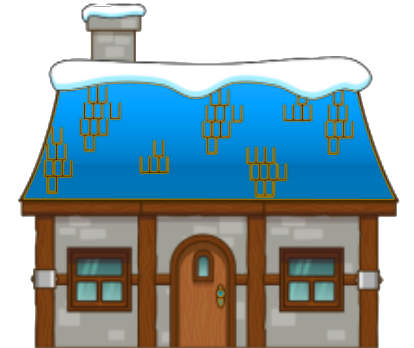
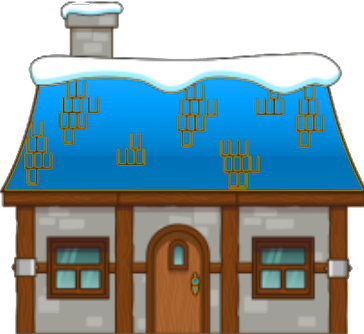
still working on the houses to appear correctly

diff --git a/js/game.js b/js/game.js
@@ -18,7 +18,7 @@ class Game {
     this.presents = [];
     this.coals = [];
     this.lastEnemyTimestamp = 0;
-    this.timeLeft = 10;
+    this.timeLeft = 30;
     this.score = 0;
     this.active = true;
     this.arrowSelected = 'ArrowRight';
@@ -51,6 +51,7 @@ class Game {
   runLogic() {
     this.erasePresents();
     this.eraseEnemy();
+    this.eraseHouse();
     this.eraseCoal();
     this.addEnemy();
     this.addHouse();
@@ -180,9 +181,10 @@ class Game {
 
   eraseHouse() {
     for (let house of this.houses) {
-      if (house.x + house.width < 0) {
+      if (house.x + house.img.width < 0) {
         const indexOfHouse = this.houses.indexOf(house);
         this.houses.splice(indexOfHouse, 1);
+        this.addHouse();
       }
     }
   }
@@ -246,49 +248,29 @@ class Game {
   }
 
   addHouse() {
-    if (this.houses.length === 0) {
+    if (this.houses.length < 4) {
       this.houses.push(  
         new House(
           this,
-          Math.random() * (canvasWidth / 4 - canvasWidth / 6) + canvasWidth / 6,
           Math.random() * (canvasHeight / 2 - canvasHeight / 4) +
             canvasHeight / 4
         )
       );
-      this.houses[0].x = 100;
-      for (let i = 1; i < 6; i++) {
-        this.houses.push(
-          new House(
-            this,
-            Math.random() * (canvasWidth / 4 - canvasWidth / 6) +
-              canvasWidth / 6,
-            Math.random() * (canvasHeight / 2 - canvasHeight / 4) +
-              canvasHeight / 4
-          )
-        );
-        this.houses[i].x = this.houses[i - 1].x + this.houses[i - 1].width;
-      }
-    }
-    if (
-      this.houses[this.houses.length - 1].x <
-      canvasWidth - this.houses[this.houses.length - 1].width
-    ) {
-      const house = new House(
-        this,
-        Math.random() * (canvasWidth / 4 - canvasWidth / 6) + canvasWidth / 6,
-        Math.random() * (canvasHeight / 2 - canvasHeight / 4) + canvasHeight / 4
-      );
-      this.houses.push(house);
-    }
   }
+}
+  
 
   checkPresentDelivered() {
     for (let present of this.presents) {
       for (let house of this.houses) {
         if (
           present.y + present.height > house.y &&
-          present.x + present.width >= house.x &&
-          present.x <= house.x + house.width
+          present.x + present.width >= house.targetX[0] &&
+          present.x <= house.x + house.targetWidth[0] ||
+          present.y + present.height > house.y &&
+          present.x + present.width >= house.targetX[1] &&
+          present.x <= house.x + house.targetWidth[1]
+
         ) {
           const indexOfPresent = this.presents.indexOf(present);
           this.presents.splice(indexOfPresent, 1);

diff --git a/js/player.js b/js/player.js
@@ -6,29 +6,29 @@ playerImageSrc = [
   '../img/santa/0004.png'
 ]
 
-console.log(playerImg);
+playerImg.src = playerImageSrc[0];
 class Player {
   constructor(game, x, y) {
     this.game = game;
     this.x = x;
     this.y = y;
-    this.height = 35;
-    this.width = 35;
+    this.height = 70;
+    this.width = 105;
     this.maxY = 0;
     this.srcIndexTimestamp = 0;
     this.srcIndex = 0;
+
   }
 
   draw() {
-    if(Date.now() > this.srcIxdexTimestamp + 200) {
+    if(Date.now() > this.srcIndexTimestamp + 200) {
       this.srcIndex++;
       this.srcIndex = this.srcIndex % 4;
       this.srcIndexTimestamp = Date.now();
     }
-    playerImg.src = playerImageSrc[this.srcIndex];
-    this.game.context.fillStyle = "red";
-    this.game.context.fillRect(this.x, this.y, this.width, this.height)
-    this.game.context.drawImage(playerImg, this.x, this.y)
+    // this.game.context.fillStyle = "red";
+    // this.game.context.fillRect(this.x, this.y, this.width, this.height)
+    this.game.context.drawImage(playerImg, this.x, this.y, this.width, this.height)
   }
 
   runLogic() {
@@ -63,7 +63,7 @@ class Player {
   checkMaxY() {
     for (let house of this.game.houses) {
       if (this.x + this.width > house.x &&
-        this.x < house.x + house.width) {
+        this.x < house.x + house.img.width) {
           const indexOfHouse = this.game.houses.indexOf(house);
           this.maxY = this.game.houses[indexOfHouse].y;
         } else if (this.x + this.width < this.game.houses[0].x){

diff --git a/js/house.js b/js/house.js
@@ -13,17 +13,38 @@ const houseSrcPath = [
 ];
 
 class House {
-  constructor(game, width, height) {
+  constructor(game, height) {
     this.game = game;
+    this.img = new Image();
     this.x = canvasWidth;
     this.y = canvasHeight - height;
-    this.width = width;
-    this.height = height;
+    this.width = this.img.width;
+    this.height = this.img.height;
     this.delivered = false;
-    this.img = new Image();
     this.houseIndex = Math.floor(Math.random() * 10)
     this.img.src = houseSrcPath[this.houseIndex];
+    this.checkHighestPoint();
+    this.targetX = 0;
+    this.targetWidth = 0;
   }
+
+  checkHighestPoint() {
+    if(this.houseIndex >= 0 && this.houseIndex < 2){
+        console.log( 'house #1');
+    } else if (this.houseIndex >= 2 && this.houseIndex < 7) {
+        console.log('house #2');
+        console.log(this.targetX);
+        this.targetX = 100;
+        this.targetWidth = 30;
+    } else if (this.houseIndex >= 7 && this.houseIndex < 10) {
+        console.log('house #3');
+        console.log(this.targetX);
+        this.targetX = 100;
+        this.targetWidth = 60;
+    }
+    }
+
+
 
   draw() {
     // this.game.context.fillStyle = 'brown';

diff --git a/js/present.js b/js/present.js
@@ -15,7 +15,6 @@ class Present {
       row: Math.floor(Math.random() * 3),
       col: Math.floor(Math.random() * 3)
     }
-    console.log(this.position.row, this.position.col);
   }
 
   draw() {
